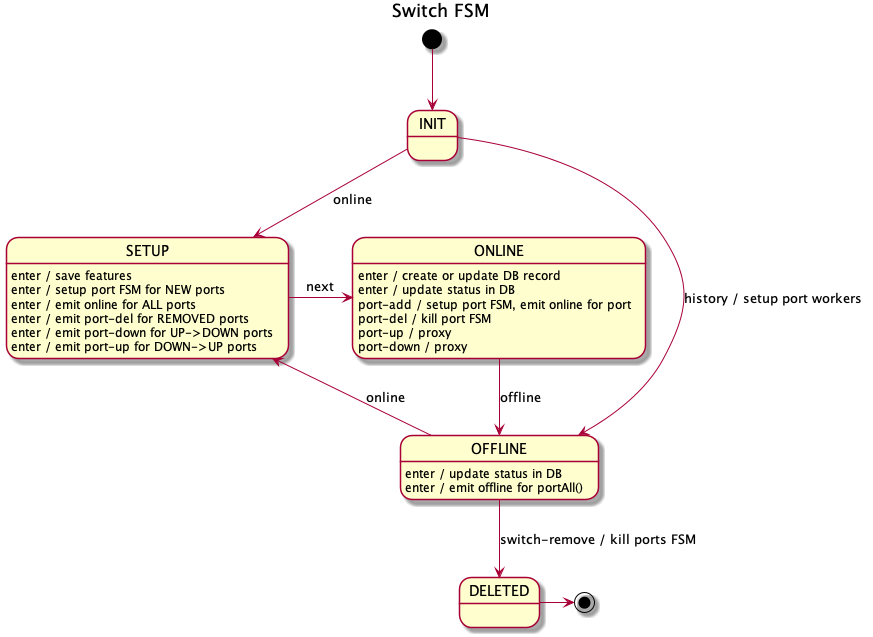
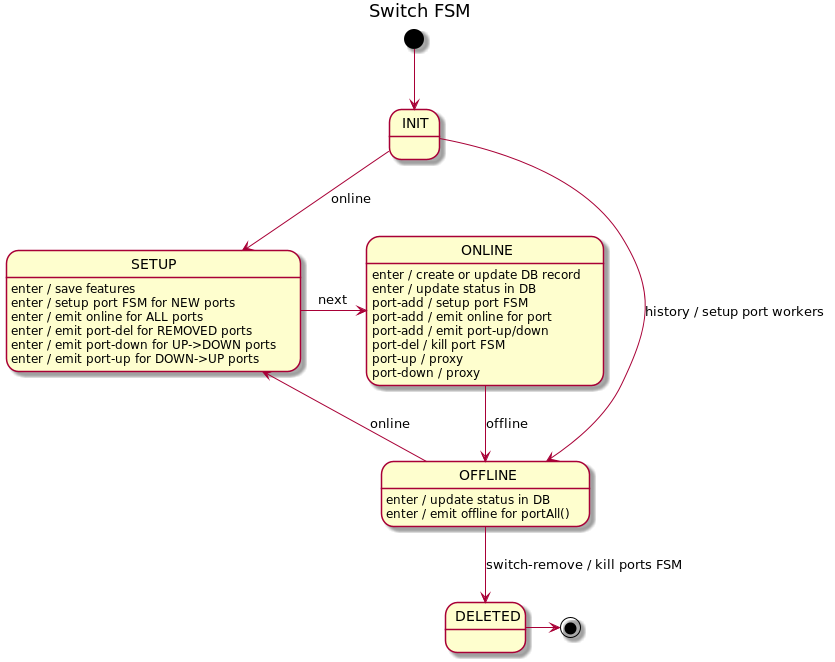
Propogate link status together with PORT_ADD event
To proper initialization of discovery process we need to know link
status. Usually we know this status from port-change event. But no in
case of PORT_ADD event... it tells only about appeance of new port, but
not provide link status for this port.

diff --git a/services/src/messaging/src/main/java/org/openkilda/messaging/info/event/PortInfoData.java b/services/src/messaging/src/main/java/org/openkilda/messaging/info/event/PortInfoData.java
@@ -15,16 +15,14 @@
 
 package org.openkilda.messaging.info.event;
 
-import static com.google.common.base.MoreObjects.toStringHelper;
-
 import org.openkilda.messaging.info.InfoData;
 import org.openkilda.model.SwitchId;
 
 import com.fasterxml.jackson.annotation.JsonCreator;
 import com.fasterxml.jackson.annotation.JsonInclude;
 import com.fasterxml.jackson.annotation.JsonProperty;
-import com.fasterxml.jackson.annotation.JsonPropertyOrder;
 import com.fasterxml.jackson.databind.annotation.JsonSerialize;
+import lombok.Data;
 
 import java.util.Objects;
 
@@ -33,11 +31,7 @@ import java.util.Objects;
  */
 @JsonSerialize
 @JsonInclude(JsonInclude.Include.NON_NULL)
-@JsonPropertyOrder({
-        "switch_id",
-        "port_no",
-        "max_capacity",
-        "state"})
+@Data
 public class PortInfoData extends InfoData {
     /**
      * Serialization version number constant.
@@ -67,6 +61,9 @@ public class PortInfoData extends InfoData {
     @JsonProperty("state")
     private PortChangeType state;
 
+    @JsonProperty("enabled")
+    private Boolean enabled;
+
     /**
      * Default constructor.
      */
@@ -92,9 +89,11 @@ public class PortInfoData extends InfoData {
      * @param state    port state
      */
     public PortInfoData(final SwitchId switchId, final int portNo, final PortChangeType state) {
-        this.switchId = switchId;
-        this.portNo = portNo;
-        this.state = state;
+        this(switchId, portNo, null, state, null);
+    }
+
+    public PortInfoData(SwitchId switchId, int portNo, PortChangeType event, Boolean enabled) {
+        this(switchId, portNo, null, event, enabled);
     }
 
     /**
@@ -109,96 +108,13 @@ public class PortInfoData extends InfoData {
     public PortInfoData(@JsonProperty("switch_id") final SwitchId switchId,
                         @JsonProperty("port_no") final int portNo,
                         @JsonProperty("max_capacity") final Integer maxCapacity,
-                        @JsonProperty("state") final PortChangeType state) {
+                        @JsonProperty("state") final PortChangeType state,
+                        @JsonProperty("enabled") Boolean enabled) {
         this.switchId = switchId;
         this.portNo = portNo;
         this.maxCapacity = maxCapacity;
         this.state = state;
-    }
-
-    /**
-     * Returns switch id.
-     *
-     * @return switch id
-     */
-    public SwitchId getSwitchId() {
-        return switchId;
-    }
-
-    /**
-     * Sets switch id.
-     *
-     * @param switchId switch id to set
-     */
-    public void setSwitchId(final SwitchId switchId) {
-        this.switchId = switchId;
-    }
-
-    /**
-     * Returns port number.
-     *
-     * @return port number
-     */
-    public int getPortNo() {
-        return portNo;
-    }
-
-    /**
-     * Sets port number.
-     *
-     * @param portNo port number to set
-     */
-    public void setPortNo(final int portNo) {
-        this.portNo = portNo;
-    }
-
-    /**
-     * Returns maximum capacity.
-     *
-     * @return maximum capacity
-     */
-    public Integer getMaxCapacity() {
-        return maxCapacity;
-    }
-
-    /**
-     * Sets maximum capacity.
-     *
-     * @param maxCapacity maximum capacity to set
-     */
-    public void setMaxCapacity(final int maxCapacity) {
-        this.maxCapacity = maxCapacity;
-    }
-
-    /**
-     * Returns port state.
-     *
-     * @return port state
-     */
-    public PortChangeType getState() {
-        return state;
-    }
-
-    /**
-     * Sets port state.
-     *
-     * @param state port state to set
-     */
-    public void setState(final PortChangeType state) {
-        this.state = state;
-    }
-
-    /**
-     * {@inheritDoc}
-     */
-    @Override
-    public String toString() {
-        return toStringHelper(this)
-                .add("switch_id", switchId)
-                .add("port_no", portNo)
-                .add("max_capacity", maxCapacity)
-                .add("state", state)
-                .toString();
+        this.enabled = enabled;
     }
 
     /**

diff --git a/services/src/floodlight-modules/src/main/java/org/openkilda/floodlight/switchmanager/SwitchTrackingService.java b/services/src/floodlight-modules/src/main/java/org/openkilda/floodlight/switchmanager/SwitchTrackingService.java
@@ -231,7 +231,39 @@ public class SwitchTrackingService implements IOFSwitchListener, IService {
         producerService.sendMessageAndTrack(discoveryTopic, dpId.toString(), message);
     }
 
-    private org.openkilda.messaging.info.event.PortChangeType toJsonType(PortChangeType type) {
+    private Boolean obtainPortEnableStatus(DatapathId dpId, OFPort port, PortChangeType changeType) {
+        Boolean result = null;
+        switch (changeType) {
+            case UP:
+                result = true;
+                break;
+            case DOWN:
+                result = false;
+                break;
+            case ADD:
+                result = obtainPortEnableStatus(dpId, port);
+                break;
+            case DELETE:
+                break;
+            default:
+                logger.error("Unable to obtain port-enable-status {}_{} - change-type:{} is not supported",
+                        dpId, port.getPortNumber(), changeType);
+        }
+
+        return result;
+    }
+
+    private Boolean obtainPortEnableStatus(DatapathId dpId, OFPort port) {
+        try {
+            IOFSwitch sw = switchManager.lookupSwitch(dpId);
+            return sw.portEnabled(port);
+        } catch (SwitchNotFoundException e) {
+            logger.error("Unable to obtain port-enable-status {}_{}: {}", dpId, port.getPortNumber(), e.getMessage());
+            return null;
+        }
+    }
+
+    private static org.openkilda.messaging.info.event.PortChangeType mapChangeType(PortChangeType type) {
         switch (type) {
             case ADD:
                 return org.openkilda.messaging.info.event.PortChangeType.ADD;
@@ -277,8 +309,9 @@ public class SwitchTrackingService implements IOFSwitchListener, IService {
      * @return Message
      */
     private Message buildPortMessage(final DatapathId switchId, final OFPort port, final PortChangeType type) {
-        InfoData data = new PortInfoData(new SwitchId(switchId.getLong()), port.getPortNumber(),
-                null, toJsonType(type));
+        InfoData data = new PortInfoData(
+                new SwitchId(switchId.getLong()), port.getPortNumber(), mapChangeType(type),
+                obtainPortEnableStatus(switchId, port, type));
         return buildMessage(data);
     }
 

diff --git a/services/wfm/src/test/java/org/openkilda/wfm/topology/discovery/service/DiscoverySwitchServiceTest.java b/services/wfm/src/test/java/org/openkilda/wfm/topology/discovery/service/DiscoverySwitchServiceTest.java
@@ -19,6 +19,7 @@ import static org.mockito.ArgumentMatchers.argThat;
 import static org.mockito.Mockito.doAnswer;
 import static org.mockito.Mockito.reset;
 import static org.mockito.Mockito.verify;
+import static org.mockito.Mockito.verifyNoMoreInteractions;
 import static org.mockito.Mockito.when;
 
 import org.openkilda.messaging.info.event.PortChangeType;
@@ -459,6 +460,39 @@ public class DiscoverySwitchServiceTest {
                                            LinkStatus.of(portsDown.get(1).getState()));
 
         //System.out.println(mockingDetails(carrier).printInvocations());
+    }
+
+    @Test
+    public void portAddOnOnlineSwitch() {
+        DiscoverySwitchService service = new DiscoverySwitchService(carrier, persistenceManager,
+                                                                    BFD_LOGICAL_PORT_OFFSET);
+
+        // prepare
+        SpeakerSwitchView speakerSwitchView = getSpeakerSwitchView().toBuilder()
+                .ports(Collections.emptyList())
+                .build();
+
+        SwitchInfoData switchAddEvent = new SwitchInfoData(
+                alphaDatapath, SwitchChangeType.ACTIVATED,
+                alphaInetAddress.toString(), alphaInetAddress.toString(), alphaDescription,
+                speakerInetAddress.toString(),
+                false,
+                speakerSwitchView);
+
+        service.switchEvent(switchAddEvent);
+
+        // process
+        Endpoint endpoint = Endpoint.of(alphaDatapath, 1);
+        PortInfoData speakerPortEvent = new PortInfoData(endpoint.getDatapath(), endpoint.getPortNumber(),
+                                                         PortChangeType.ADD, true);
+
+        service.switchPortEvent(speakerPortEvent);
+
+        verify(carrier).setupPortHandler(endpoint, null);
+        verify(carrier).setOnlineMode(endpoint, true);
+        verify(carrier).setPortLinkMode(endpoint, LinkStatus.UP);
+
+        verifyNoMoreInteractions(carrier);
     }
 
 

diff --git a/services/wfm/src/main/java/org/openkilda/wfm/topology/discovery/service/DiscoverySwitchService.java b/services/wfm/src/main/java/org/openkilda/wfm/topology/discovery/service/DiscoverySwitchService.java
@@ -124,13 +124,13 @@ public class DiscoverySwitchService {
     public void switchPortEvent(PortInfoData payload) {
         log.debug("Switch service receive PORT event for {} port:{}, status:{}",
                   payload.getSwitchId(), payload.getPortNo(), payload.getState());
-        SwitchFsmContext fsmContext = SwitchFsmContext.builder(carrier)
-                .portNumber(payload.getPortNo())
-                .build();
+        SwitchFsmContext.SwitchFsmContextBuilder fsmContext = SwitchFsmContext.builder(carrier)
+                .portNumber(payload.getPortNo());
         SwitchFsmEvent event = null;
         switch (payload.getState()) {
             case ADD:
                 event = SwitchFsmEvent.PORT_ADD;
+                fsmContext.portEnabled(payload.getEnabled());
                 break;
             case DELETE:
                 event = SwitchFsmEvent.PORT_DEL;
@@ -154,7 +154,7 @@ public class DiscoverySwitchService {
 
         if (event != null) {
             SwitchFsm switchFsm = locateController(payload.getSwitchId());
-            controllerExecutor.fire(switchFsm, event, fsmContext);
+            controllerExecutor.fire(switchFsm, event, fsmContext.build());
         }
     }
 

diff --git a/services/wfm/src/main/java/org/openkilda/wfm/topology/discovery/controller/sw/SwitchFsm.java b/services/wfm/src/main/java/org/openkilda/wfm/topology/discovery/controller/sw/SwitchFsm.java
@@ -219,6 +219,14 @@ public final class SwitchFsm extends AbstractBaseFsm<SwitchFsm, SwitchFsmState, 
 
         portAdd(port, context);
         updateOnlineStatus(port, context, true);
+
+        Boolean isPortEnabled = context.getPortEnabled();
+        if (isPortEnabled == null) {
+            log.error("Link status of {} is unknown - treat is as DOWN", port.getEndpoint());
+            isPortEnabled = false;
+        }
+        port.setLinkStatus(isPortEnabled ? LinkStatus.UP : LinkStatus.DOWN);
+        updatePortLinkMode(port, context);
     }
 
     protected void handlePortDel(SwitchFsmState from, SwitchFsmState to, SwitchFsmEvent event,
@@ -367,6 +375,7 @@ public final class SwitchFsm extends AbstractBaseFsm<SwitchFsm, SwitchFsmState, 
         private HistoryFacts history;
 
         private Integer portNumber;
+        private Boolean portEnabled;
 
         public static SwitchFsmContextBuilder builder(ISwitchCarrier output) {
             return (new SwitchFsmContextBuilder()).output(output);

diff --git a/services/wfm/src/main/java/org/openkilda/wfm/topology/discovery/service/DiscoveryBfdPortService.java b/services/wfm/src/main/java/org/openkilda/wfm/topology/discovery/service/DiscoveryBfdPortService.java
@@ -88,10 +88,12 @@ public class DiscoveryBfdPortService {
         controllerByPhysicalPort.remove(controller.getPhysicalEndpoint());
 
         if (controller.isHousekeeping()) {
-            log.info("BFD-port {} (physical-port:{}) have switched into housekeeping mode");
+            log.info("BFD-port {} (physical-port:{}) have switched into housekeeping mode",
+                     controller.getLogicalEndpoint(), controller.getPhysicalEndpoint().getPortNumber());
             doHousekeeping.add(controller);
         } else {
-            log.debug("BFD-port {} (physical-port:{}) do not require housekeeping, remove it immediately");
+            log.debug("BFD-port {} (physical-port:{}) do not require housekeeping, remove it immediately",
+                      controller.getLogicalEndpoint(), controller.getPhysicalEndpoint().getPortNumber());
         }
     }
 

diff --git a/services/src/messaging/src/test/java/org/openkilda/messaging/command/flow/AbstractSerializerTest.java b/services/src/messaging/src/test/java/org/openkilda/messaging/command/flow/AbstractSerializerTest.java
@@ -461,7 +461,7 @@ public abstract class AbstractSerializerTest implements AbstractSerializer {
 
     @Test
     public void eventPortInfoTest() throws IOException, ClassNotFoundException {
-        PortInfoData data = new PortInfoData(SWITCH_ID, INPUT_PORT, 0, PORT_CHANGE);
+        PortInfoData data = new PortInfoData(SWITCH_ID, INPUT_PORT, PORT_CHANGE);
         System.out.println(data);
 
         InfoMessage info = new InfoMessage(data, System.currentTimeMillis(), CORRELATION_ID, DESTINATION,
